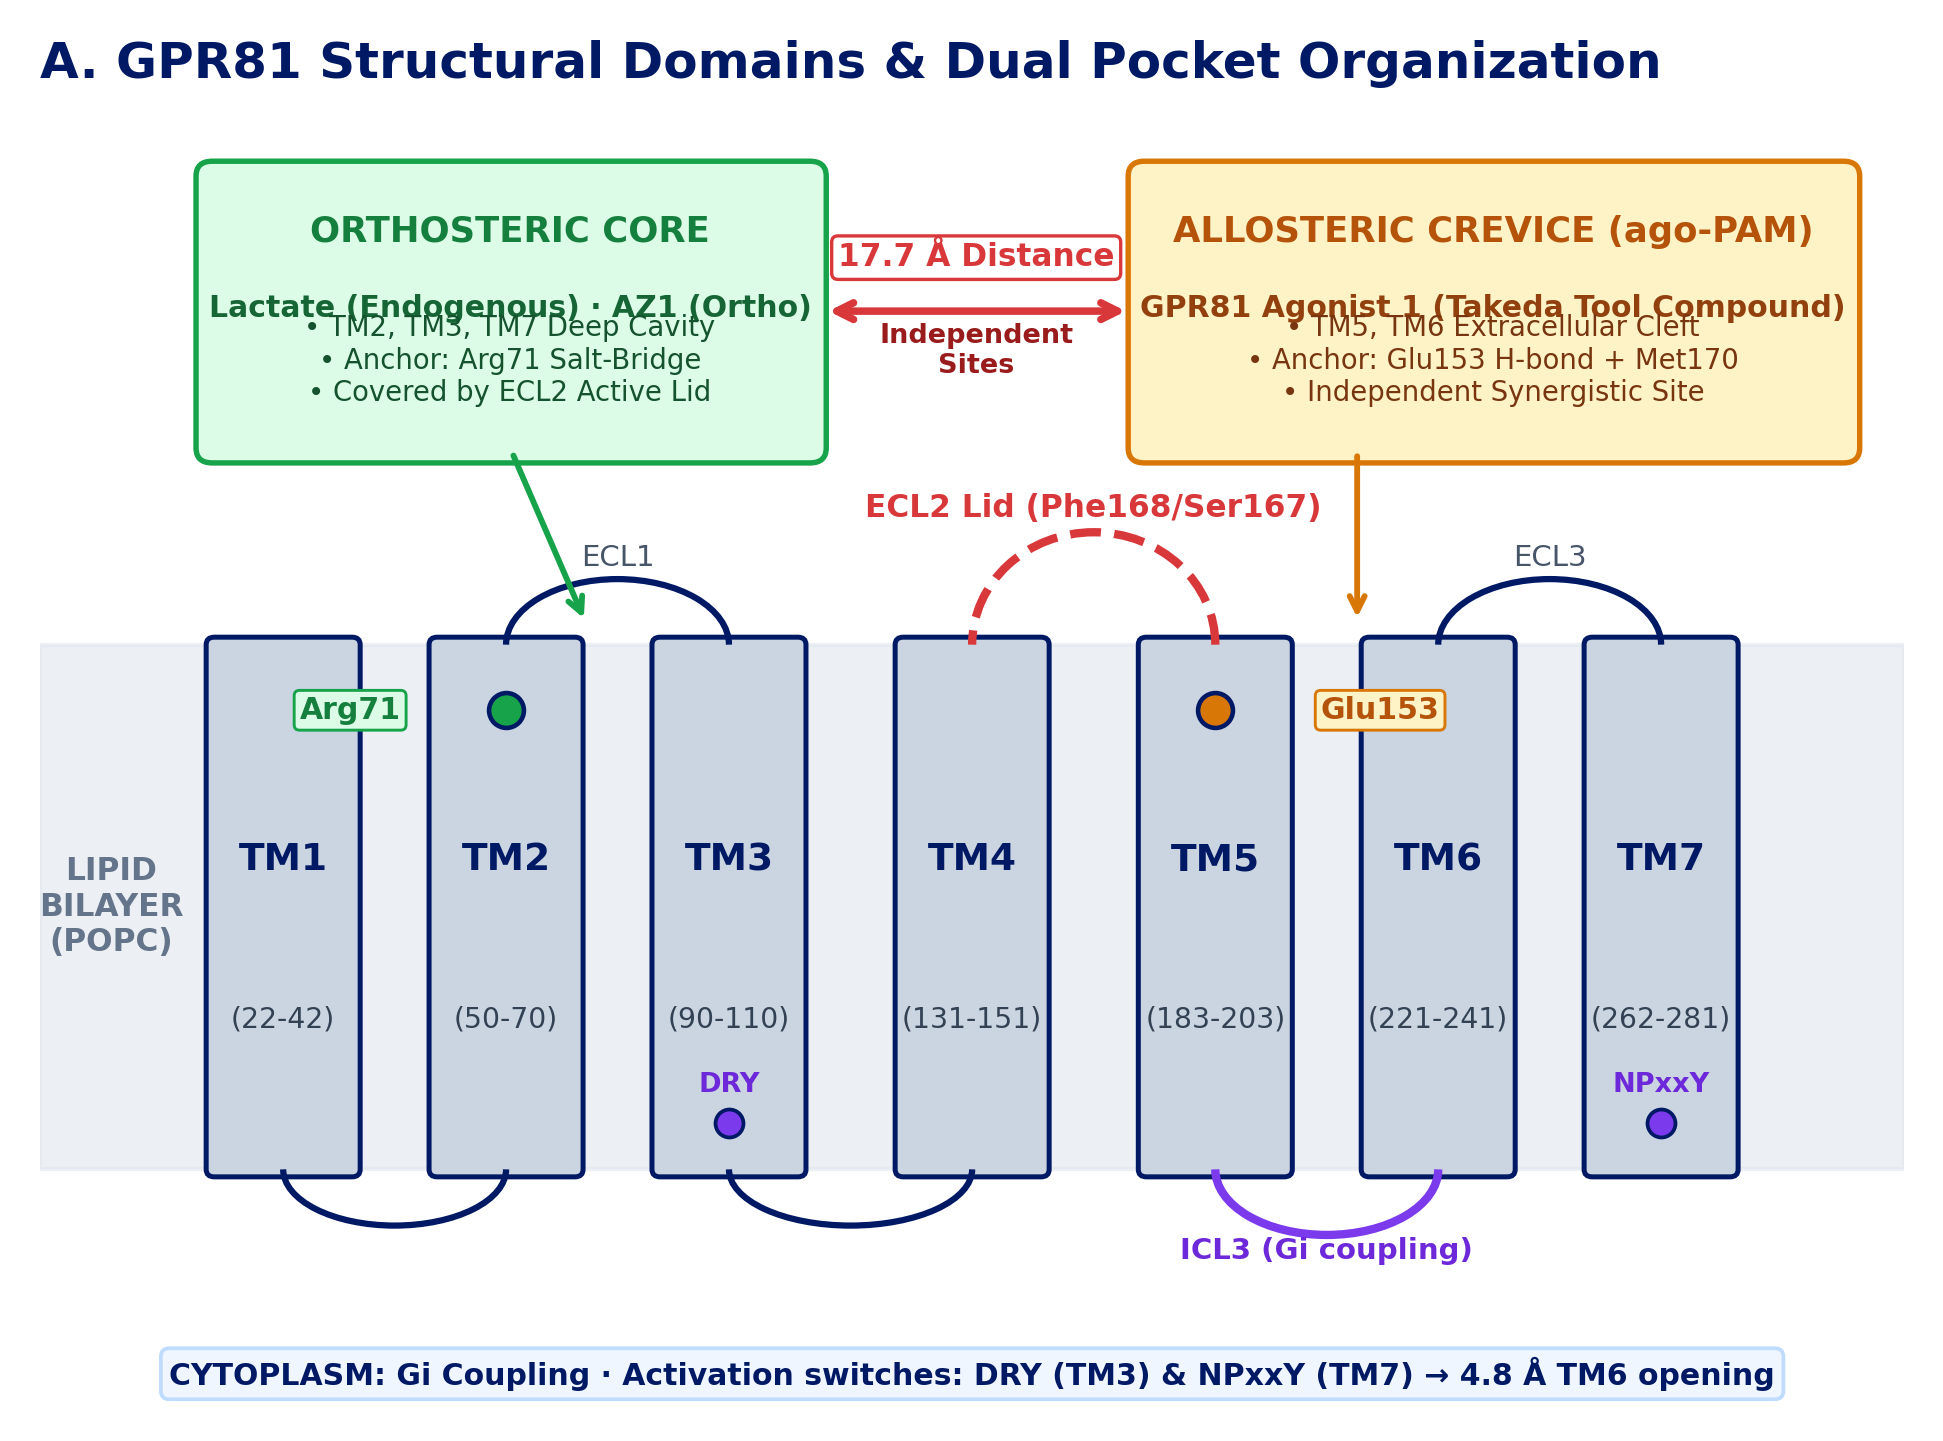
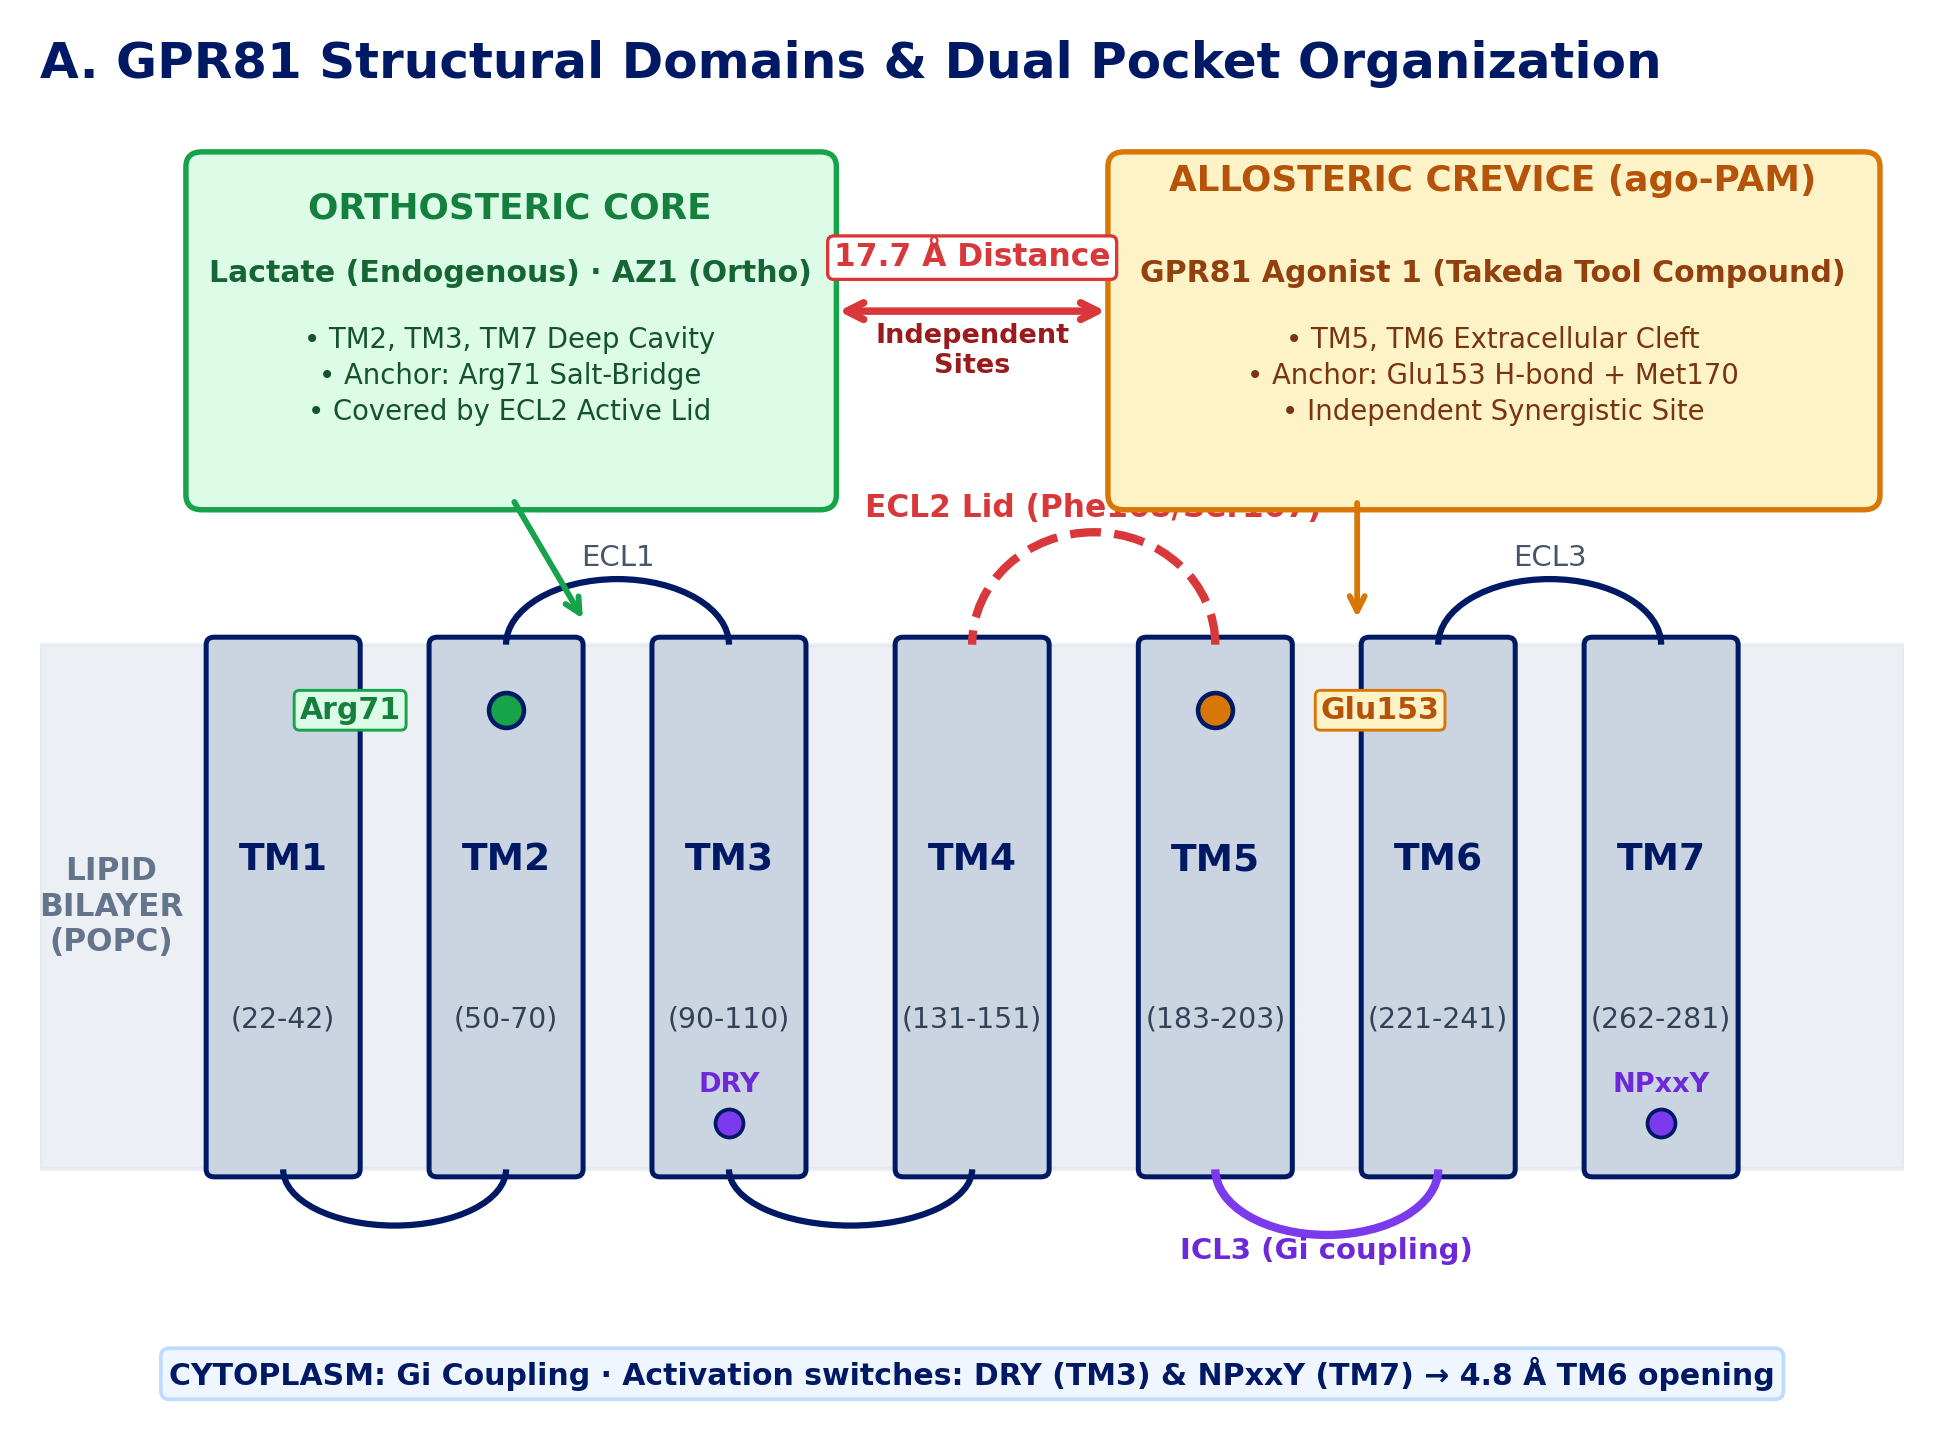
fix(gpr81): add explicit vertical line gaps inside orthosteric and allosteric pocket boxes

Changed region(s): [[0.0926, 0.0937, 0.9882, 0.4372]]

diff --git a/data/gpr81_binding_modes/generate_visualizations.py b/data/gpr81_binding_modes/generate_visualizations.py
@@ -96,37 +96,37 @@ ax_a.add_patch(patches.Arc((4.0, 2.6), 1.2, 0.6, theta1=180, theta2=360, color=N
 ax_a.add_patch(patches.Arc((6.35, 2.6), 1.1, 0.7, theta1=180, theta2=360, color=NN_PURPLE, lw=2.0, zorder=3))
 ax_a.text(6.35, 2.12, "ICL3 (Gi coupling)", ha="center", fontsize=7.0, fontweight="bold", color="#6D28D9", zorder=4)
 
-# Pockets Cards in Extracellular space (cleanly separated at top)
+# Pockets Cards in Extracellular space (cleanly separated at top with generous line gaps)
 # Orthosteric Box (Top-Left)
-box_ortho = patches.FancyBboxPatch((0.85, 6.45), 2.95, 1.45, boxstyle="round,pad=0.08",
+box_ortho = patches.FancyBboxPatch((0.80, 6.20), 3.05, 1.75, boxstyle="round,pad=0.08",
                                    facecolor="#DCFCE7", edgecolor="#16A34A", lw=1.3, zorder=5)
 ax_a.add_patch(box_ortho)
-ax_a.text(2.32, 7.55, "ORTHOSTERIC CORE", ha="center", fontsize=8.5, fontweight="bold", color="#15803D", zorder=6)
-ax_a.text(2.32, 7.15, "Lactate (Endogenous) · AZ1 (Ortho)", ha="center", fontsize=7.2, fontweight="bold", color="#166534", zorder=6)
-ax_a.text(2.32, 6.70, "• TM2, TM3, TM7 Deep Cavity\n• Anchor: Arg71 Salt-Bridge\n• Covered by ECL2 Active Lid", 
-          ha="center", fontsize=6.6, color="#14532D", zorder=6)
+ax_a.text(2.32, 7.82, "ORTHOSTERIC CORE", ha="center", va="top", fontsize=8.6, fontweight="bold", color="#15803D", zorder=6)
+ax_a.text(2.32, 7.46, "Lactate (Endogenous) · AZ1 (Ortho)", ha="center", va="top", fontsize=7.2, fontweight="bold", color="#166534", zorder=6)
+ax_a.text(2.32, 7.10, "• TM2, TM3, TM7 Deep Cavity\n• Anchor: Arg71 Salt-Bridge\n• Covered by ECL2 Active Lid", 
+          ha="center", va="top", linespacing=1.35, fontsize=6.6, color="#14532D", zorder=6)
 # Guide arrow pointing into pocket mouth
-ax_a.annotate("", xy=(2.7, 5.5), xytext=(2.32, 6.45),
+ax_a.annotate("", xy=(2.7, 5.5), xytext=(2.32, 6.20),
               arrowprops=dict(arrowstyle="->", color="#16A34A", lw=1.4, mutation_scale=9), zorder=6)
 
 # Allosteric Box (Top-Right)
-box_allo = patches.FancyBboxPatch((5.45, 6.45), 3.45, 1.45, boxstyle="round,pad=0.08",
+box_allo = patches.FancyBboxPatch((5.35, 6.20), 3.65, 1.75, boxstyle="round,pad=0.08",
                                   facecolor="#FEF3C7", edgecolor="#D97706", lw=1.3, zorder=5)
 ax_a.add_patch(box_allo)
-ax_a.text(7.17, 7.55, "ALLOSTERIC CREVICE (ago-PAM)", ha="center", fontsize=8.5, fontweight="bold", color="#B45309", zorder=6)
-ax_a.text(7.17, 7.15, "GPR81 Agonist 1 (Takeda Tool Compound)", ha="center", fontsize=7.2, fontweight="bold", color="#92400E", zorder=6)
-ax_a.text(7.17, 6.70, "• TM5, TM6 Extracellular Cleft\n• Anchor: Glu153 H-bond + Met170\n• Independent Synergistic Site", 
-          ha="center", fontsize=6.6, color="#78350F", zorder=6)
+ax_a.text(7.17, 7.82, "ALLOSTERIC CREVICE (ago-PAM)", ha="center", fontsize=8.6, fontweight="bold", color="#B45309", zorder=6)
+ax_a.text(7.17, 7.46, "GPR81 Agonist 1 (Takeda Tool Compound)", ha="center", va="top", fontsize=7.2, fontweight="bold", color="#92400E", zorder=6)
+ax_a.text(7.17, 7.10, "• TM5, TM6 Extracellular Cleft\n• Anchor: Glu153 H-bond + Met170\n• Independent Synergistic Site", 
+          ha="center", va="top", linespacing=1.35, fontsize=6.6, color="#78350F", zorder=6)
 # Guide arrow pointing into crevice mouth
-ax_a.annotate("", xy=(6.5, 5.5), xytext=(6.5, 6.45),
+ax_a.annotate("", xy=(6.5, 5.5), xytext=(6.5, 6.20),
               arrowprops=dict(arrowstyle="->", color="#D97706", lw=1.4, mutation_scale=9), zorder=6)
 
 # Separation vector between pockets in upper center
-ax_a.annotate("", xy=(5.40, 7.18), xytext=(3.85, 7.18),
+ax_a.annotate("", xy=(5.30, 7.18), xytext=(3.90, 7.18),
               arrowprops=dict(arrowstyle="<->", color=NN_CORAL, lw=1.8, mutation_scale=10), zorder=8)
-ax_a.text(4.62, 7.42, "17.7 Å Distance", ha="center", fontsize=7.5, fontweight="bold", color=NN_CORAL,
+ax_a.text(4.60, 7.42, "17.7 Å Distance", ha="center", fontsize=7.5, fontweight="bold", color=NN_CORAL,
           bbox=dict(boxstyle="round,pad=0.2", facecolor="#FFFFFF", edgecolor=NN_CORAL, lw=0.8), zorder=9)
-ax_a.text(4.62, 6.85, "Independent\nSites", ha="center", fontsize=6.5, fontweight="bold", color="#991B1B", zorder=9)
+ax_a.text(4.60, 6.85, "Independent\nSites", ha="center", fontsize=6.5, fontweight="bold", color="#991B1B", zorder=9)
 
 # Bottom banner
 ax_a.text(4.6, 1.45, "CYTOPLASM: Gi Coupling · Activation switches: DRY (TM3) & NPxxY (TM7) → 4.8 Å TM6 opening",
